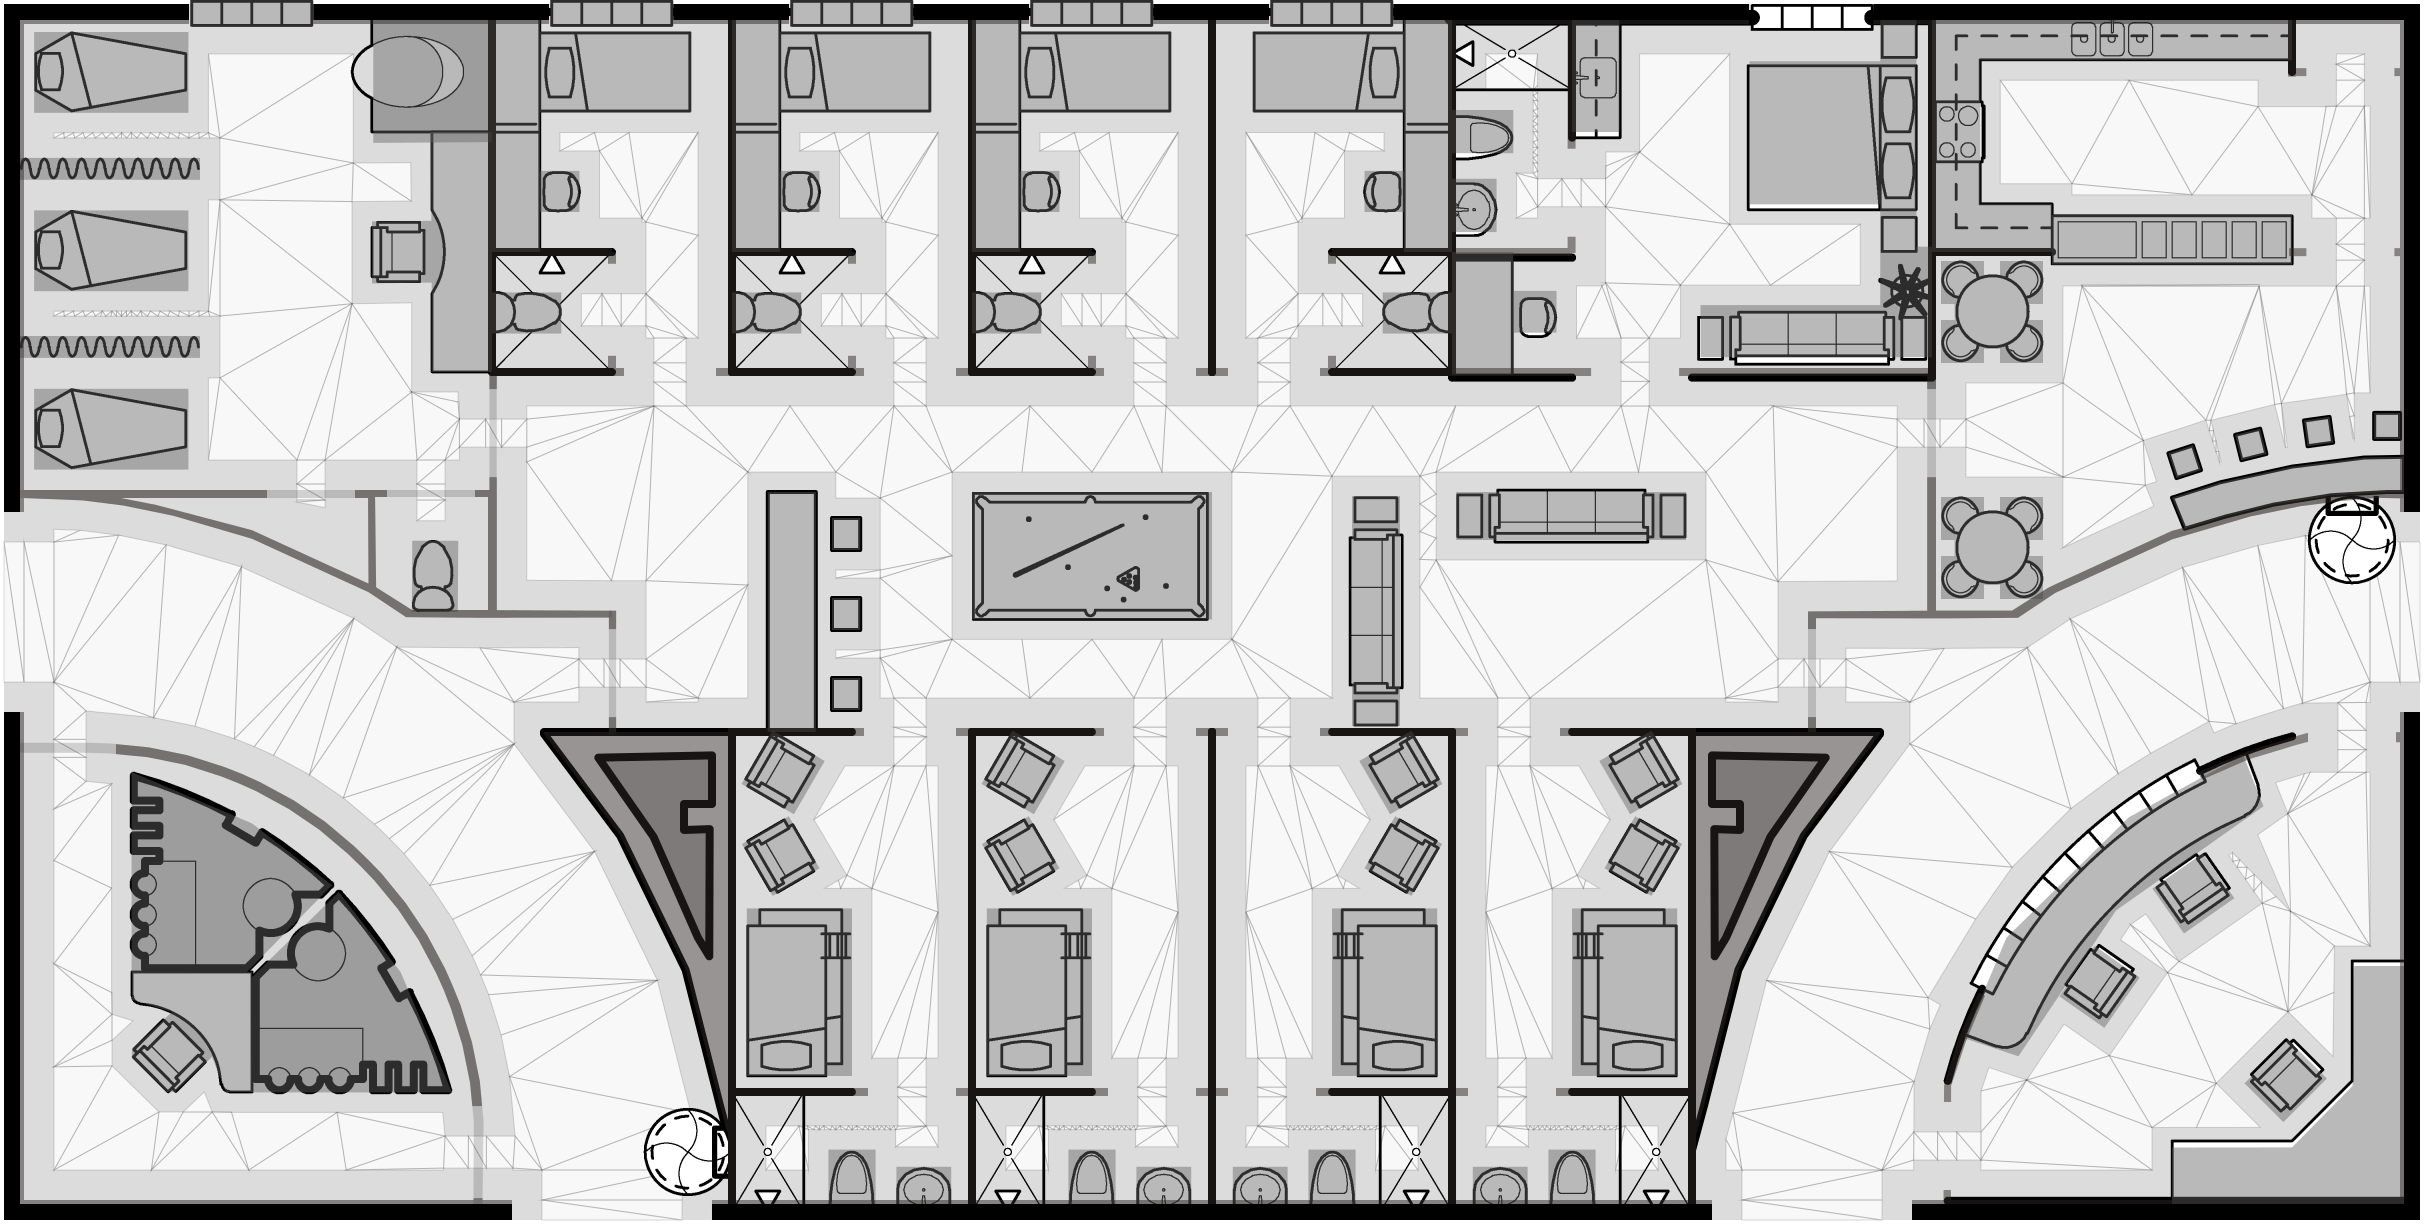
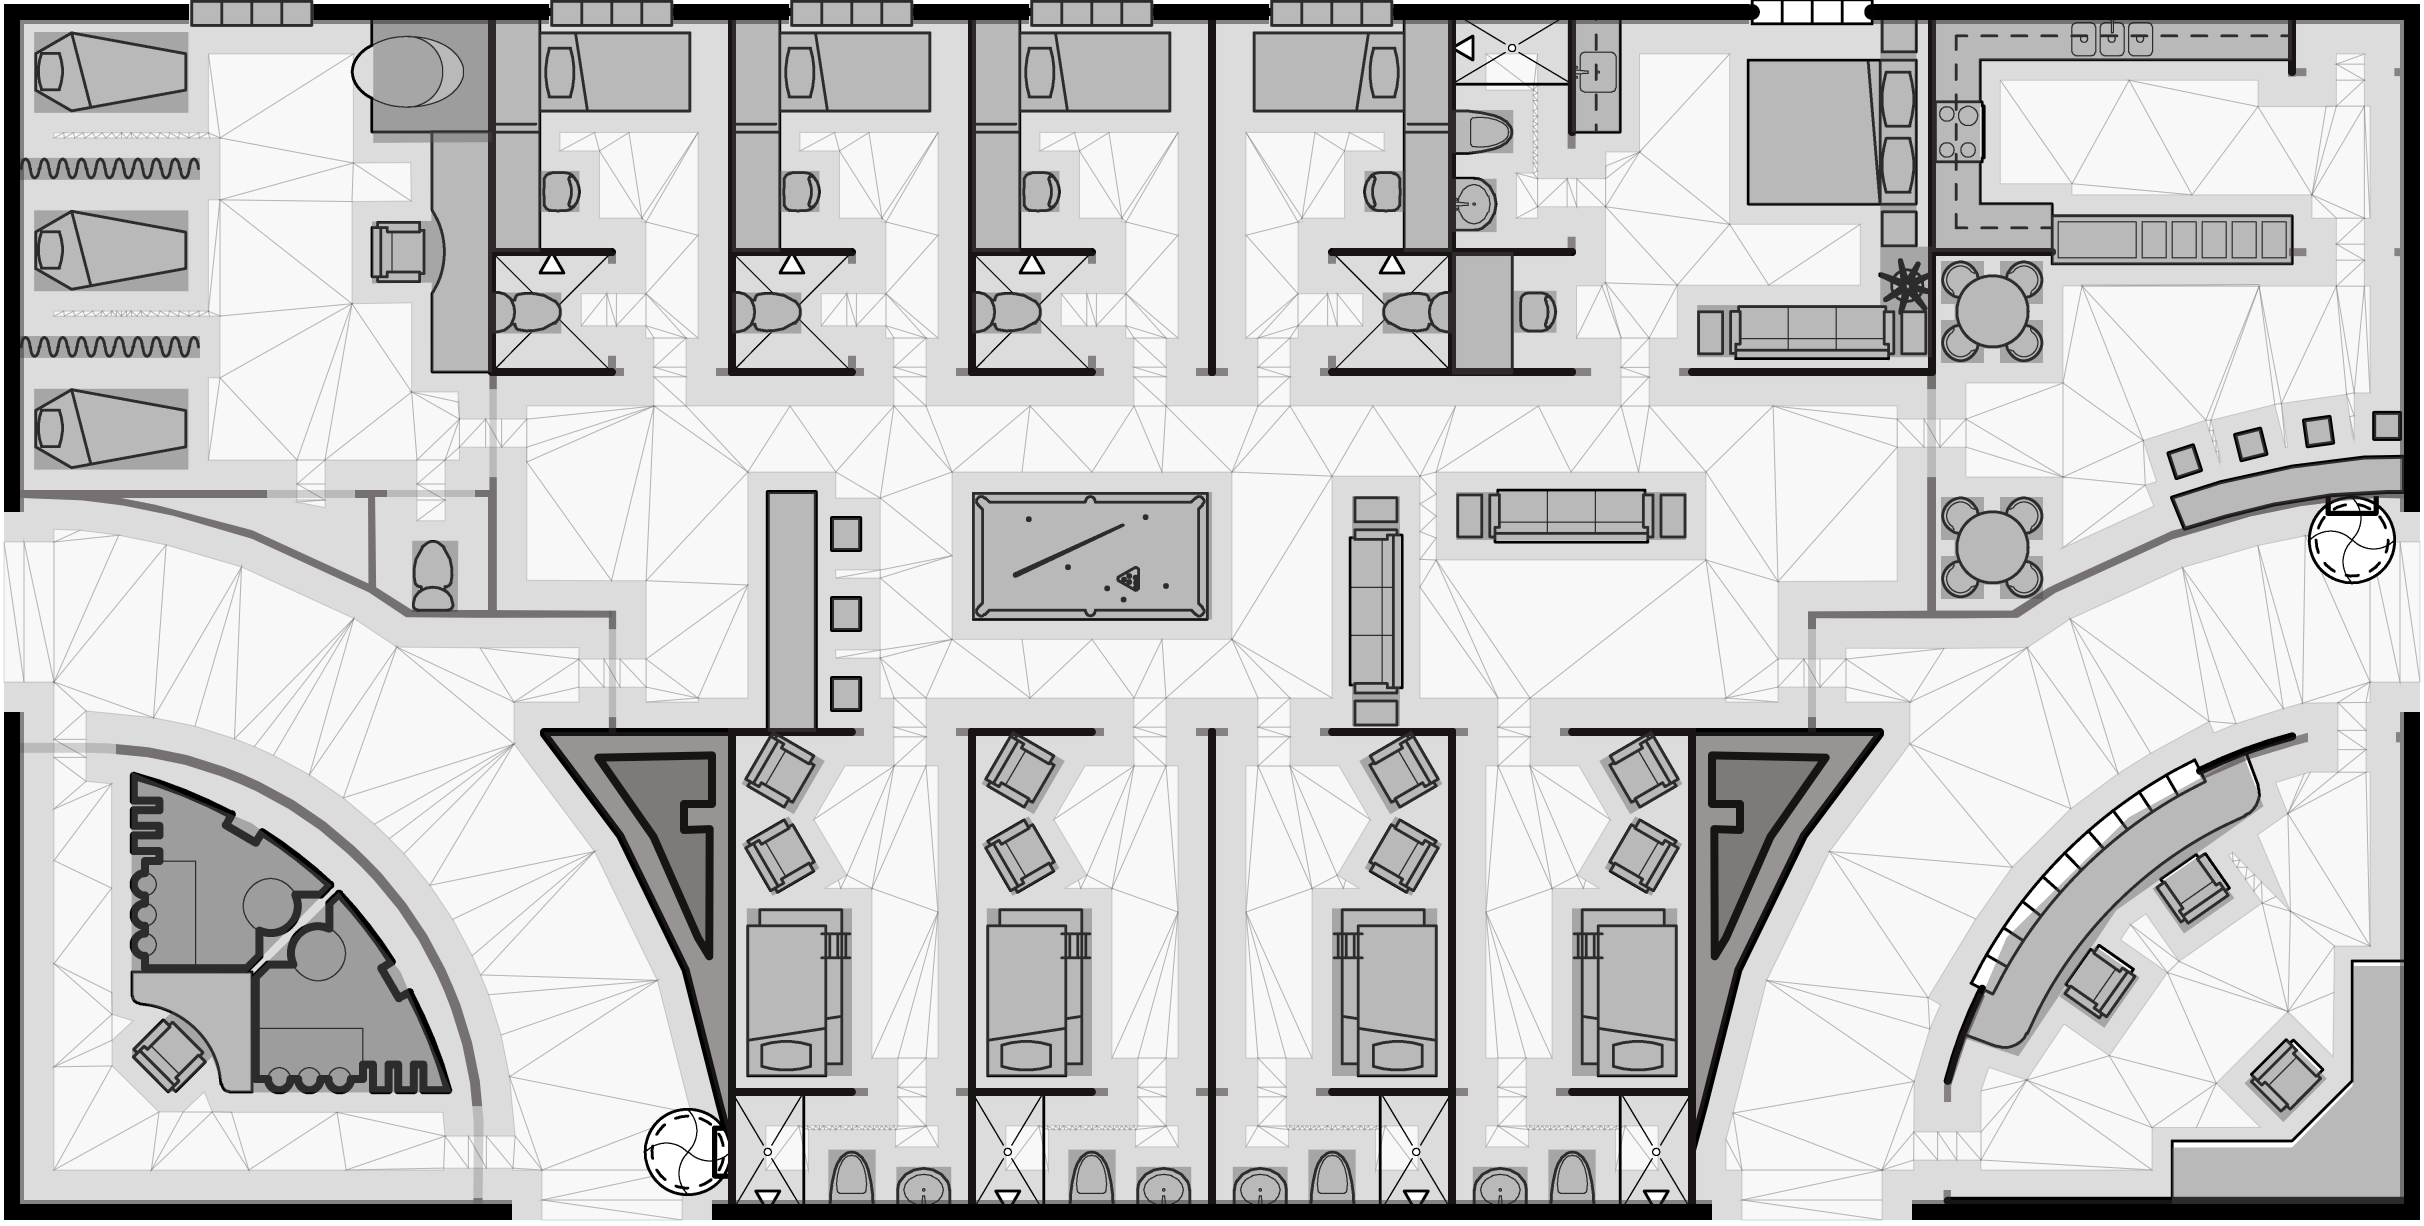
feat: fix stateroom 100

diff --git a/TODO.md b/TODO.md
@@ -48,14 +48,12 @@
   - seems `goLoop` is receiving click before npc has moved, so plans a walk
   - we force click to be ignored by earlier handlers
 
-- fix stateroom 100 (as seen in gm 303)
+- ✅ fix stateroom 100 (as seen in gm 303)
 
 - 🚧 stop npc `foo` from walking through doors
   ```sh
   nav foo $( click 1 ) | walk foo
   ```
-
-- rethink light through nearby doors
 
 - Start new page intro.mdx
   - it will replace objective.mdx
@@ -67,6 +65,7 @@
 - Avoid overwrite e.g. public/geomorph via pages/geomorph.mdx
 - Saw `World` fail silently due to use-geomorph-data bug
 
+- ✅ rethink light through nearby doors
 - ✅ Weird animation pause on disable Tabs
 - ✅ Change Tabs splitter size on mobile
   ```tsx
